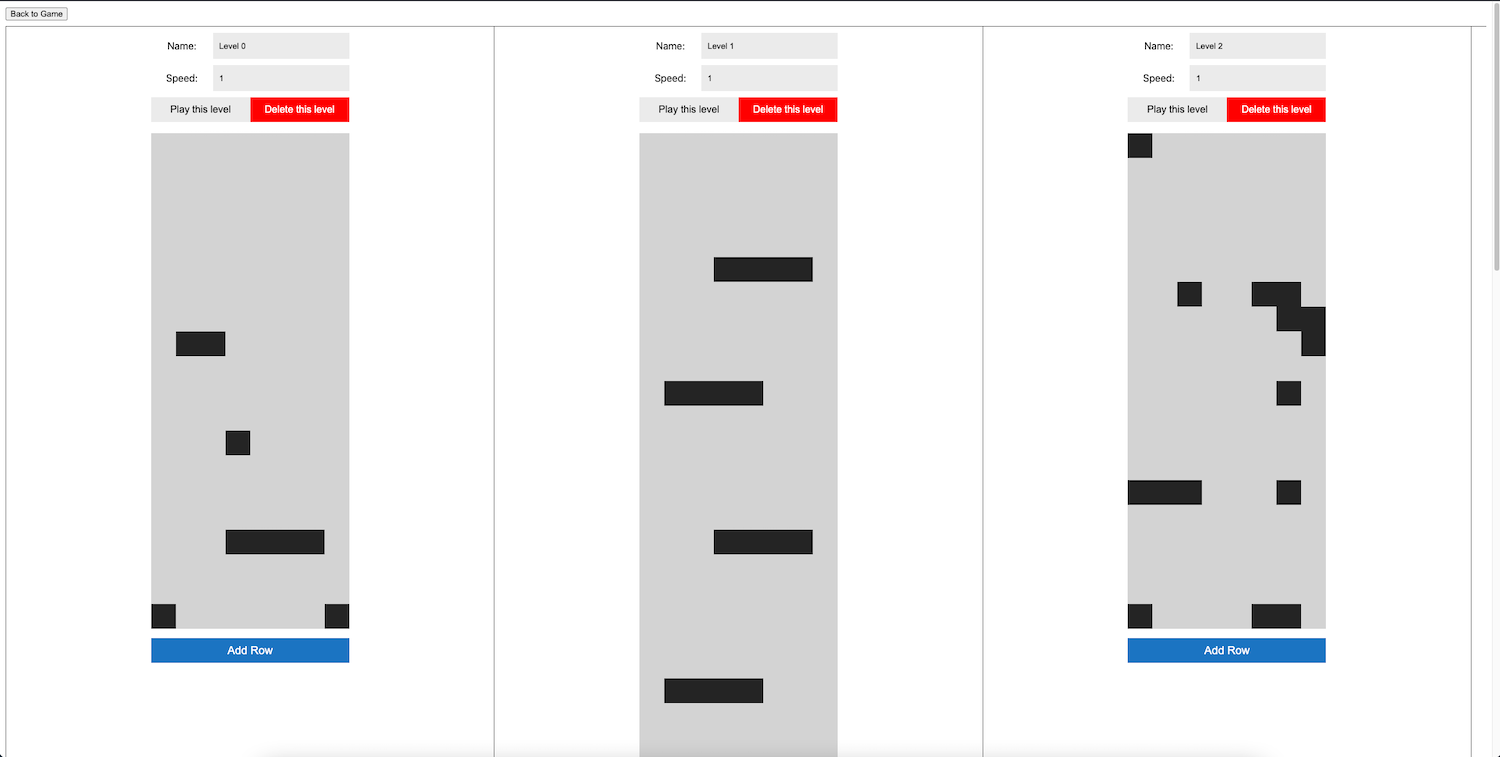
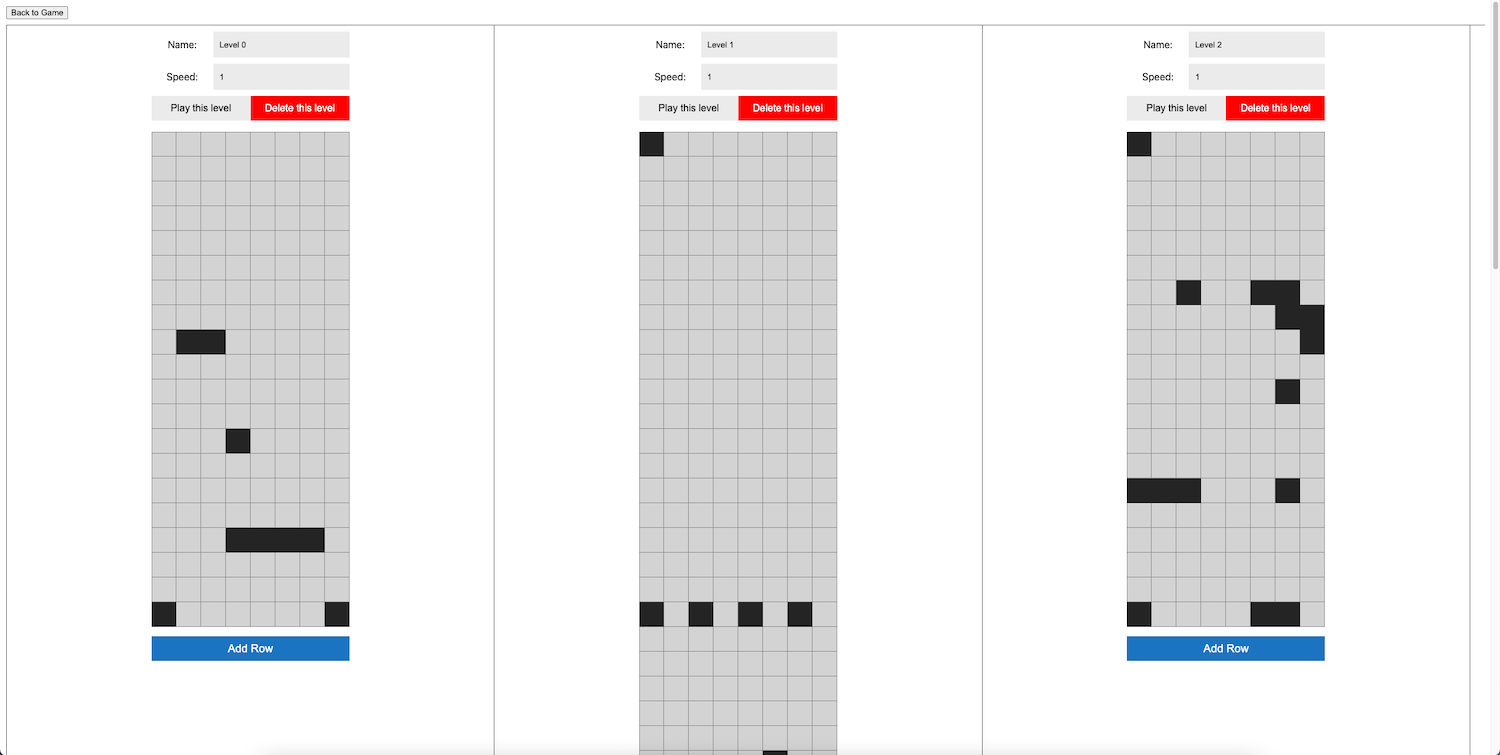
added grid to level editor and updated preview

diff --git a/src/app/pages/level-builder/level-builder.component.css b/src/app/pages/level-builder/level-builder.component.css
@@ -67,6 +67,7 @@
     background-color: lightgrey;
     transition: 100ms background-color;
     border: none;
+    border-radius: 0;
 
     font-size: 50px;
     cursor: pointer;
@@ -101,6 +102,7 @@
 
     border: none;
     background-color: rgb(235, 235, 235);
+    border-radius: 0;
     padding-left: 10px;
     padding-right: 10px;
 }
@@ -113,6 +115,7 @@
     width: calc(var(--levelWidthPX) / 2);
 
     border: none;
+    border-radius: 0;
     color: white;
     font-size: medium;
     cursor: pointer;
@@ -131,6 +134,7 @@
     /*The actual dimensions for the normal plane is 80 * 200, with 8 cubes on onw row*/
     width: calc(var(--levelWidthPX) + 40px); /*320px is for the 8 cubes, and then there's an extra 40px for the delete row button */
     /*height: 800px; Height is set dynamically*/
+    position: relative;
 
     display: grid;
     grid-template-columns: 100%;
@@ -138,10 +142,29 @@
 
     transform: translateX(20px); /*this is to account for the extra 40px from the delete button*/
 }
+.levelGridBorder
+{
+    position: absolute;
+    top: 0;
+    bottom: 0;
+    left: 0;
+    right: 40px;
+
+    border-left: 1px solid #2424246d;
+    border-top: 1px solid #2424246d;
+
+    pointer-events: none;
+}
 .levelObstacleRow
 {
     display: grid;
     grid-template-columns: repeat(auto-fill, 40px);
+}
+.levelObstacle /*Need to use a different div for the border since I don't want the grid borders to show the extra 40px for the delete buttonts */
+{ 
+    cursor: pointer;
+    border-right: 1px solid #2424246d;
+    border-bottom: 1px solid #2424246d;
 }
 .addRowButton
 {   
@@ -153,6 +176,7 @@
     margin-bottom: 10px;
 
     border: none;
+    border-radius: 0;
     background-color: var(--goodButtonColour);
     color: white;
     font-size: large;
@@ -170,9 +194,8 @@
     transition: 200ms;
 
     border: none;
+    border-radius: 0;
     cursor: pointer;
 }
 .deleteRowButton:hover
 { opacity: 100%; }
-.levelObstacle
-{ cursor: pointer; }

diff --git a/src/app/pages/level-builder/level-builder.component.html b/src/app/pages/level-builder/level-builder.component.html
@@ -24,6 +24,7 @@
                             ></div>
                             <div> <input type="button" class="deleteRowButton" value="—" style="font-size: large;" (click)="deleteRow(levelIndex, row)"> </div>
                         </div>
+                        <div class="levelGridBorder"></div>
                     </div>
                     <input type="button" class="addRowButton" value="Add Row" (click)="addRow(levelIndex)">
                 </div>

diff --git a/src/app/pages/game/game.component.css b/src/app/pages/game/game.component.css
@@ -58,7 +58,7 @@
     font-size: 1rem;
 
     position: absolute;
-    bottom: 10px;
+    bottom: 100px;
     z-index: 1;
 
     display: none; /*Hidden by default*/
